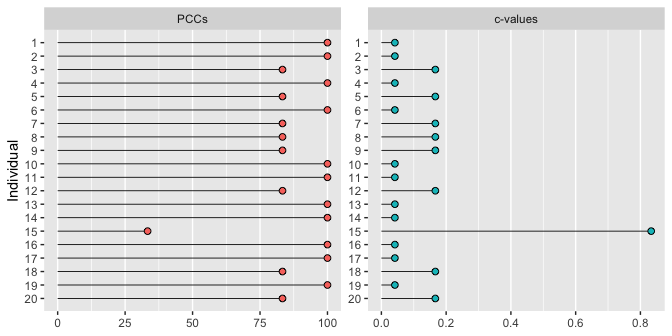
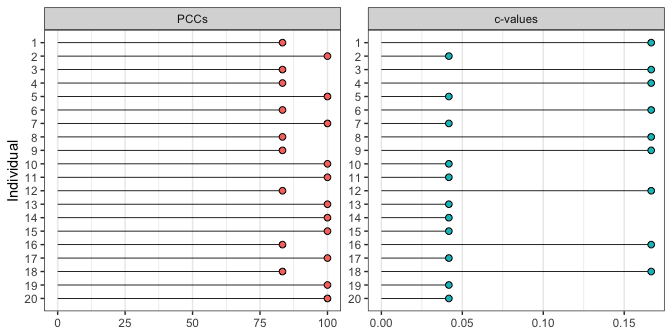
updated README

diff --git a/src/cpp_functions.cpp b/src/cpp_functions.cpp
@@ -168,8 +168,9 @@ List c_compare_perm_pccs(NumericMatrix perms, List m, int indiv_idx, IntegerVect
 NumericMatrix c_generate_permutations(NumericVector v) {
   int N = v.length();
   // calculate factorial of N to pre-size matrix
-  // tgamma(n+1) is equivalent to factorial(n)
-  int nperms = tgamma(N + 1);
+  long nperms = 1;
+  for (int i = 1; i <= N; ++i)
+    nperms *= i;
   // preallocate matrix
   NumericMatrix perms(N, nperms);
   perms(_,0) = v; // a is the first permutation

diff --git a/README.md b/README.md
@@ -110,26 +110,26 @@ dat <- data.frame(t1 = rnorm(20, mean = 12, sd = 2),
                   
 round(dat, 2)
 #>       t1    t2    t3    t4
-#> 1  12.42 14.91 18.50 17.59
-#> 2   9.71 15.10 22.88 19.51
-#> 3  10.36 19.06 21.55 16.03
-#> 4  10.48 18.37 24.43 20.32
-#> 5  12.31 11.19 17.24 16.72
-#> 6  12.89 13.51 22.61 17.57
-#> 7  14.41  9.85 22.17 15.80
-#> 8  13.73 14.29 16.06 18.07
-#> 9   9.73 16.42 18.47 14.83
-#> 10 14.91 15.58 20.19 18.27
-#> 11 11.50 13.11 21.82 18.52
-#> 12 13.09 12.92 19.89 17.80
-#> 13 11.82 16.56 21.09 18.38
-#> 14 10.76 14.91 24.62 15.97
-#> 15 18.88 16.47 14.80 18.97
-#> 16 13.38 15.22 22.06 17.81
-#> 17  7.88 14.23 17.87 15.69
-#> 18 12.48 18.05 18.41 17.44
-#> 19 12.75 15.27 20.53 15.32
-#> 20 14.79 14.12 23.12 18.61
+#> 1  14.13 13.92 22.06 18.31
+#> 2  14.70 16.45 24.32 20.44
+#> 3   9.82 14.76 19.56 20.56
+#> 4  12.45 11.56 17.23 17.21
+#> 5  12.19 16.84 18.56 17.29
+#> 6  12.63 15.58 23.22 13.34
+#> 7  10.32 15.56 19.16 15.83
+#> 8  14.42 13.64 19.91 17.18
+#> 9  10.12 13.31 15.49 16.98
+#> 10 13.23 17.15 20.54 19.11
+#> 11 12.04 15.12 18.43 18.05
+#> 12 14.78 16.27 19.07 16.06
+#> 13 10.01 12.27 23.63 15.94
+#> 14 10.11 12.59 18.51 17.77
+#> 15 10.79 15.94 22.91 18.23
+#> 16 11.70 14.01 17.82 18.04
+#> 17  9.24 15.10 18.40 17.52
+#> 18  9.33 17.77 20.40 16.03
+#> 19 10.42 16.42 21.21 18.77
+#> 20 13.95 15.85 20.50 17.76
 ```
 
 An ordinal pattern analysis model to consider how the hypothesis `h`
@@ -146,18 +146,18 @@ summary(opamod)
 #> Ordinal Pattern Analysis of 4 observations for 20 individuals in 1 group 
 #> 
 #> Group-level results:
-#>        PCC cval
-#> pooled  90 0.13
+#>         PCC cval
+#> pooled 92.5  0.1
 #> 
 #> Individual-level results:
 #>       PCC cval
-#> 1  100.00 0.04
+#> 1   83.33 0.17
 #> 2  100.00 0.04
 #> 3   83.33 0.17
-#> 4  100.00 0.04
-#> 5   83.33 0.17
-#> 6  100.00 0.04
-#> 7   83.33 0.17
+#> 4   83.33 0.17
+#> 5  100.00 0.04
+#> 6   83.33 0.17
+#> 7  100.00 0.04
 #> 8   83.33 0.17
 #> 9   83.33 0.17
 #> 10 100.00 0.04
@@ -165,12 +165,12 @@ summary(opamod)
 #> 12  83.33 0.17
 #> 13 100.00 0.04
 #> 14 100.00 0.04
-#> 15  33.33 0.83
-#> 16 100.00 0.04
+#> 15 100.00 0.04
+#> 16  83.33 0.17
 #> 17 100.00 0.04
 #> 18  83.33 0.17
 #> 19 100.00 0.04
-#> 20  83.33 0.17
+#> 20 100.00 0.04
 #> 
 #> PCCs were calculated for pairwise ordinal relationships using a difference threshold of 0.
 #> Chance-values were calculated using the exact method.
@@ -206,32 +206,32 @@ summary(opamod2)
 #> Group-level results:
 #>     PCC cval
 #> A 93.33 0.09
-#> B 96.67 0.07
-#> C 80.00 0.25
-#> D 90.00 0.12
+#> B 93.33 0.09
+#> C 96.67 0.07
+#> D 86.67 0.14
 #> 
 #> Individual-level results:
 #>   Individual    PCC cval
-#> A          1 100.00 0.04
-#> A          5  83.33 0.17
+#> A          1  83.33 0.17
+#> A          5 100.00 0.04
 #> A          9  83.33 0.17
 #> A         13 100.00 0.04
 #> A         17 100.00 0.04
 #> B          2 100.00 0.04
-#> B          6 100.00 0.04
+#> B          6  83.33 0.17
 #> B         10 100.00 0.04
 #> B         14 100.00 0.04
 #> B         18  83.33 0.17
 #> C          3  83.33 0.17
-#> C          7  83.33 0.17
+#> C          7 100.00 0.04
 #> C         11 100.00 0.04
-#> C         15  33.33 0.83
+#> C         15 100.00 0.04
 #> C         19 100.00 0.04
-#> D          4 100.00 0.04
+#> D          4  83.33 0.17
 #> D          8  83.33 0.17
 #> D         12  83.33 0.17
-#> D         16 100.00 0.04
-#> D         20  83.33 0.17
+#> D         16  83.33 0.17
+#> D         20 100.00 0.04
 #> 
 #> PCCs were calculated for pairwise ordinal relationships using a difference threshold of 0.
 #> Chance-values were calculated using the exact method.
